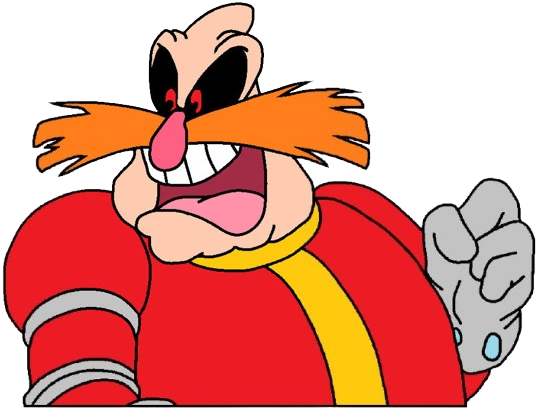
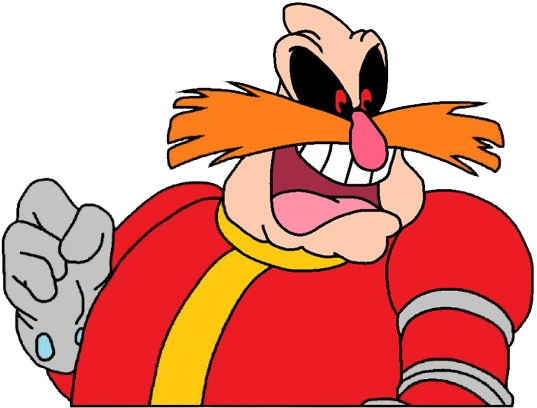
Robotnik kart color fix and sprite fixes for Ganin and Robotnik

diff --git a/grand-meme-prix/grand_meme_prix.js b/grand-meme-prix/grand_meme_prix.js
@@ -31,7 +31,7 @@ const CHARACTERS = [
   { name: "Ganon",          img: "assets/Ganon.png",           color: 0x3C0008, lightbarColor: 0x5D100A, voicelines: ['assets/voicelines/ganon-hit.mp3', 'assets/voicelines/ganon-win.mp3', 'assets/voicelines/ganon-lose.mp3'] }, // maroon
   { name: "Michael Rosen",     img: "assets/Michael-Rosen.png",    color: 0x708090, lightbarColor: 0xC0C0C0, voicelines: ['assets/voicelines/michael-rosen-hit.mp3', 'assets/voicelines/michael-rosen-win.mp3', 'assets/voicelines/michael-rosen-lose.mp3'] }, // grey
   { name: "Link",         img: "assets/Link.png",          color: 0x00FF00, lightbarColor: 0x00FF00, voicelines: ['assets/voicelines/link-hit.mp3', 'assets/voicelines/link-win.mp3', 'assets/voicelines/link-lose.mp3'] }, // bright green
-  { name: "Dr. Robotnik" , img: "assets/Dr-Robotnik.png", color: 0xFF0000, lightbarColor: 0xFF0000, voicelines: ['assets/voicelines/dr-robotnik-hit.mp3', 'assets/voicelines/dr-robotnik-win.mp3', 'assets/voicelines/dr-robotnik-lose.mp3'] }, // red
+  { name: "Dr. Robotnik" , img: "assets/Dr-Robotnik.png", color: 0xfc5a03, lightbarColor: 0xff5900, voicelines: ['assets/voicelines/dr-robotnik-hit.mp3', 'assets/voicelines/dr-robotnik-win.mp3', 'assets/voicelines/dr-robotnik-lose.mp3'] }, // red
 ];
 
 // =============================================
